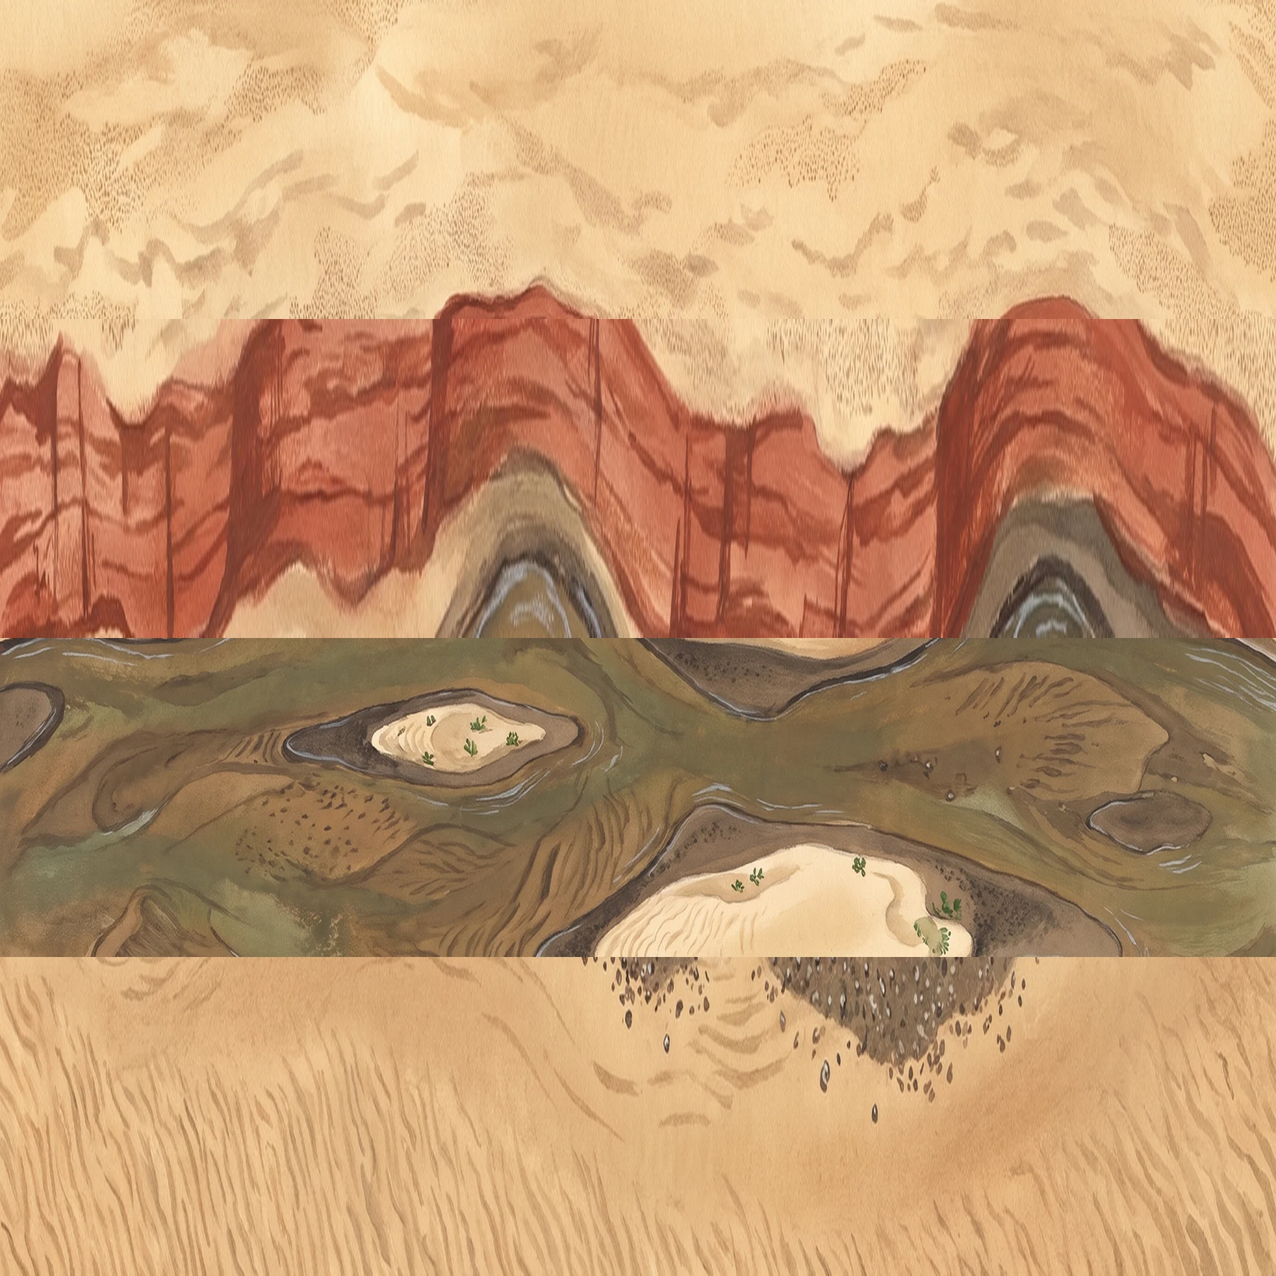
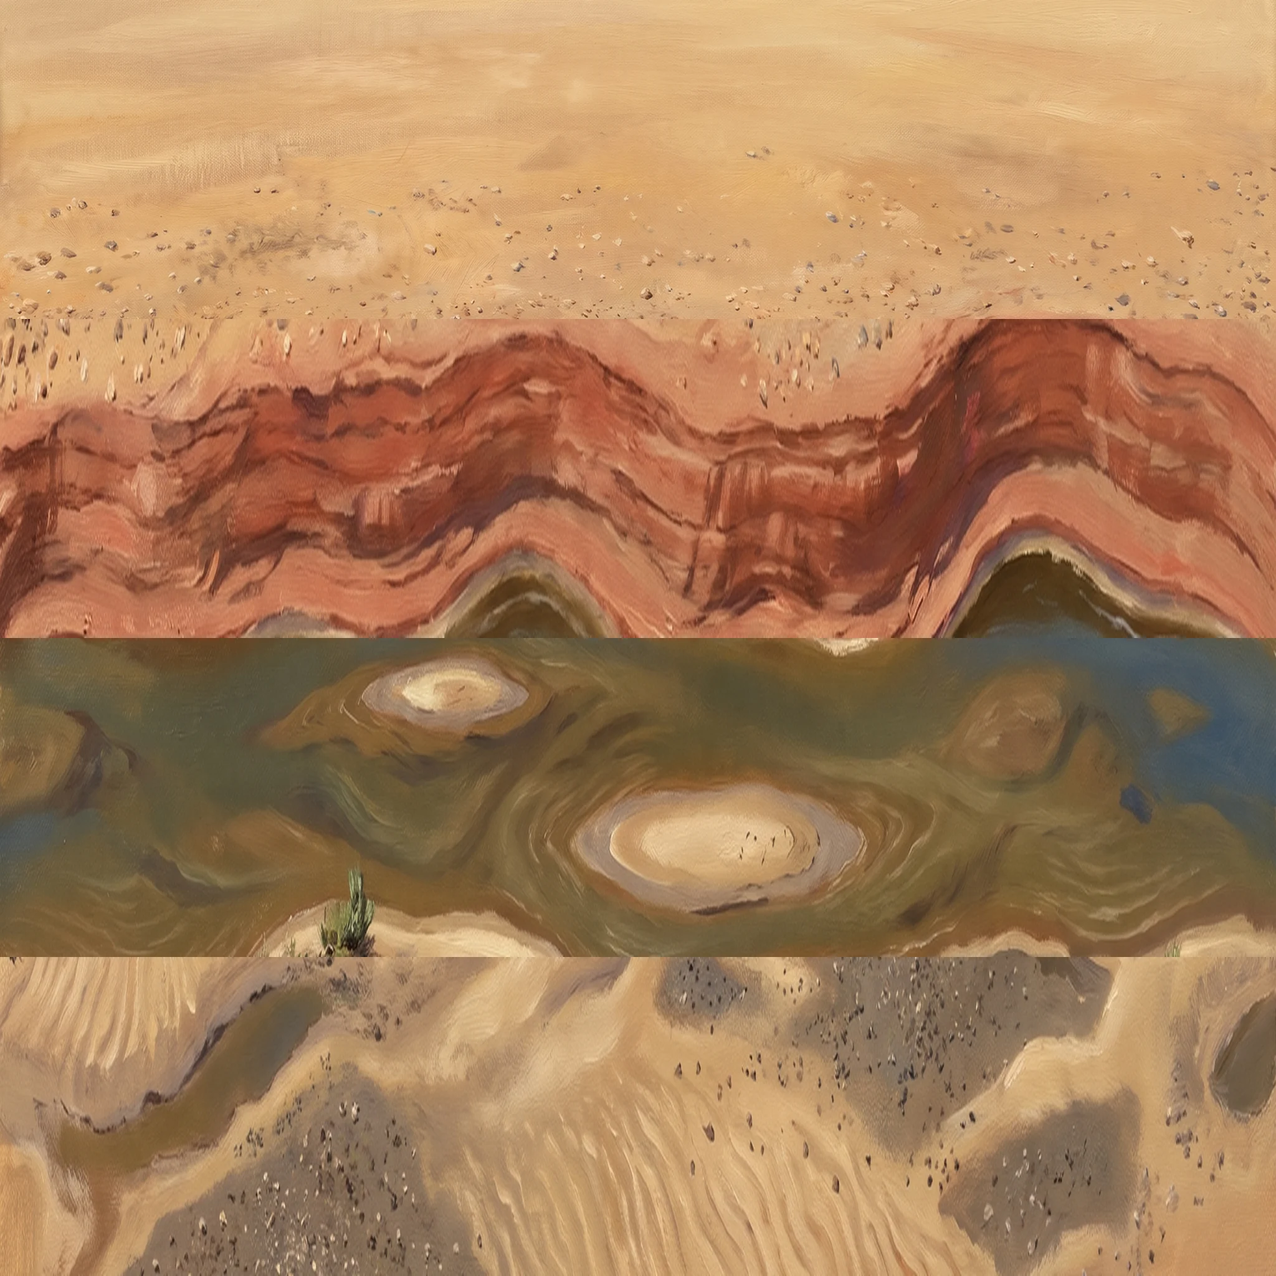
Knight's manner, today's science: the ground and the Earth opening
Evan: "Charles Knight style but today's interpretations." The house
manner for painted surfaces is now Charles R. Knight's (named in the
prompt: he died in 1953; never a living artist's), with the content
from the site's papers.

- The Kem Kem ground: repainted in Knight's manner by Gemini 3 Pro
  Image from the scene's own guide map (tools/paint.py ground --style
  knight; 2 candidates, ~$0.27). One slipped into perspective with
  cliffs the brief rules out and was refused; the other is cut into
  the scene's four ground swatches.
- The Earth opening: asked to repaint the atlas's globe and region in
  Knight's manner, the model drew the continents of 97 Ma closer to
  today's (76-89% land/sea agreement with the map); choose-earth
  refused all four (~$0.54 spent). New earth-brush builds the opening
  instead: shapes and colours from the atlas's own map, softened by an
  oil-paint brush filter, with only the brushwork of the repaint, and
  only where it agrees with the map about land and sea. Every coast and
  shallow sea stays exactly as mapped.
- The scene's panel gains "The pictures": how the Earth and the ground
  were made, by what model and in whose manner, with the prompt one tap
  away. docs/ART.md records the decision and its limits.

app/scripts/check.cjs: 38 passed, 0 failed (new: the painted Earth is
used; the panel says how the pictures were made).

diff --git a/app/src/SiteView.tsx b/app/src/SiteView.tsx
@@ -144,6 +144,10 @@ export function SiteView({ site, onBack }: { site: Site; onBack: () => void }) {
         <h3>How do we know?</h3><p>{site.know}</p>
         <h3>Still debated</h3><p>{site.debate}</p>
         <h3>What is a guess</h3><p>The exact shape of the river, banks and sandbank; where each plant stands; the animals’ poses and where they stand. The kinds of land, water and plants come from the papers below. Every animal is drawn to scale: most sizes come from papers; where none gives one, the animal’s card says whose estimate it is, or that it is a guess from living relatives.</p>
+        <h3>The pictures</h3>
+        <p>{site.earth && <>The Earth at the start is this atlas’s own map of that time — every coast and shallow sea as the science has it — given a painted look in the manner of Charles R. Knight (1874–1953). </>}
+          {site.ground && <>The ground is painted by AI ({site.ground.model === 'gemini-3-pro-image' ? 'Google’s Gemini 3 Pro Image' : site.ground.model}){/Charles R\. Knight/.test(site.ground.prompt) ? ' in the manner of Charles R. Knight, drawn with today’s science,' : ''} from this scene’s own map, and checked by eye; the scene lays its texture over the land, so the river and banks keep their shape. No animal is painted: they are the scientists’ silhouettes.</>}</p>
+        {site.ground && <details className="prompt"><summary>What the painter was asked</summary><div>{site.ground.prompt}</div></details>}
         <h3>Sources</h3>
         <ul className="papers">{site.papers.map(p => <li key={p.key}>{p.authors[0]}{p.authors.length > 1 ? ' et al.' : ''} ({p.year}). {p.title}. <i>{p.journal}</i>. <a href={'https://doi.org/' + p.doi} target="_blank" rel="noopener">doi:{p.doi}</a></li>)}</ul>
       </section>}

diff --git a/app/src/EarthIntro.tsx b/app/src/EarthIntro.tsx
@@ -11,13 +11,13 @@ export function EarthIntro({ site, onDone }: { site: Site; onDone: () => void })
     return () => t.forEach(clearTimeout);
   }, [onDone]);
   return <div className={'earth s' + stage} onClick={onDone} role="dialog" aria-label={'The Earth ' + site.when}>
-    <img className="globe" src={`earth/${site.id}-1.jpg`} alt="" />
-    <img className="region" src={`earth/${site.id}-2.jpg`} alt="" />
+    <img className="globe" src={`earth/${site.id}-1${site.earth ? '-painted' : ''}.jpg`} alt="" />
+    <img className="region" src={`earth/${site.id}-2${site.earth ? '-painted' : ''}.jpg`} alt="" />
     <div className="pin" aria-hidden="true" />
     <div className="cap">
       <b>The Earth {site.when}</b>
       <span>{site.name.replace(/^The /, 'the ').replace(/^./, c => c.toUpperCase())}, in what is now {site.where}</span>
-      <small>Continents, seas and mountains from this atlas’s map · tap to skip</small>
+      <small>Continents, seas and mountains from this atlas’s map{site.earth ? ', painted in the manner of Charles R. Knight' : ''} · tap to skip</small>
     </div>
   </div>;
 }
@@ -25,6 +25,6 @@ export function EarthIntro({ site, onDone }: { site: Site; onDone: () => void })
 /** a small round view of the Earth at that time, with the site marked: tap to see the opening again */
 export function WhereOnEarth({ site, onOpen }: { site: Site; onOpen: () => void }) {
   return <button className="where" onClick={onOpen} aria-label="Where on Earth: show the opening again">
-    <img src={`earth/${site.id}-1.jpg`} alt="" /><span>Where on Earth</span>
+    <img src={`earth/${site.id}-1${site.earth ? '-painted' : ''}.jpg`} alt="" /><span>Where on Earth</span>
   </button>;
 }

diff --git a/app/src/styles.css b/app/src/styles.css
@@ -19,6 +19,7 @@ a { color: var(--link); }
 .units { margin-left: auto; flex-shrink: 0; display: flex; border: 1px solid var(--line); border-radius: 10px; overflow: hidden; align-self: flex-start; }
 .units button { min-width: 44px; height: 36px; border: 0; background: var(--panel); color: var(--muted); cursor: pointer; font-weight: 600; }
 .units button.on { background: var(--gold); color: #2e1a08; }
+.panel .prompt summary { cursor: pointer; color: var(--link); } .panel .prompt div { white-space: pre-wrap; font-size: 0.74rem; color: var(--muted); background: rgba(255,255,255,0.04); padding: 8px; border-radius: 8px; margin-top: 4px; }
 .panel .basis { font-size: 0.82rem; color: var(--ink); background: rgba(255, 255, 255, 0.05); padding: 6px 8px; border-radius: 8px; }
 .bar b { display: block; color: #fff; } .bar span { color: var(--gold); font-size: 0.8rem; } .bar em { display: block; color: var(--muted); font-size: 0.8rem; max-width: 560px; }
 .back { width: 40px; height: 40px; border-radius: 10px; border: 1px solid var(--line); background: var(--panel); color: #fff; cursor: pointer; }

diff --git a/app/src/types.ts b/app/src/types.ts
@@ -11,4 +11,5 @@ export interface Site {
   cast: CastMember[]; paint: { land: string; water: string; plants: string; light: string; not: string };
   know: string; debate: string; sil: Record<string, Silhouette>; papers: Paper[];
   ground: { f: string; model: string; made: string; prompt: string; strips: string[] } | null;
+  earth: { method: string } | null;
 }

diff --git a/tools/paint.py b/tools/paint.py
@@ -11,6 +11,10 @@ says the picture is AI-made, names the model and shows what it was asked for.
     python3 -I tools/paint.py choose kemkem 2          # candidate 2 becomes tiles/scenes/kemkem.webp
     python3 -I tools/paint.py ground kemkem --guide g.png [--n 2] [--pro] [--size 2K]   # the ground of a living scene
     python3 -I tools/paint.py choose-ground kemkem 1   # candidate 1 becomes the scene's ground swatches (app/public/ground/)
+        (add --style knight to `ground`: Charles R. Knight's manner, drawn with today's science; see docs/ART.md)
+    python3 -I tools/paint.py earth kemkem [--n 1] [--pro]     # the Earth opening (globe, region), repainted in Knight's manner
+    python3 -I tools/paint.py choose-earth kemkem 1 2         # view 1, candidate 2 → app/public/earth/kemkem-1-painted.jpg,
+                                                               #   only if its coasts still match the map (land/sea agreement)
     python3 -I tools/paint.py spent                    # what the log says was spent
     python3 -I tools/paint.py check                    # is the key accepted, and can it see the image models? (free)
 
@@ -169,15 +173,29 @@ GROUND_NEVER = ('Seen from straight above only: no horizon, no sky, no perspecti
                 'labels, border or frame.')
 
 
-def ground(sid, guide, n, pro, size):
+# Charles R. Knight (1874–1953) is named on purpose: he died in 1953 and much of his work is public domain, and
+# docs/ART.md never allows a living artist's name. His manner; today's science: the brief (from the papers) decides
+# what is painted (Evan, 25 Nov: "Charles Knight style but today's interpretations").
+KNIGHT = ('Painted in the manner of Charles R. Knight (1874–1953), the American natural-history muralist: oil on canvas, '
+          'confident visible brushwork, warm golden naturalistic light, soft atmospheric haze, a palette of ochres, siennas, '
+          'olive greens and dusty blues, calm and dignified realism. Keep his warmth and his eye for the real world, but follow '
+          "TODAY's science, not the science of his time: paint the land, water, plants and climate exactly as described here.")
+GROUND_KNIGHT = ('A richly detailed painting of a landscape seen from directly above. ' + KNIGHT + ' Fine, careful texture '
+                 'everywhere: grains and small pebbles on the gravel bars, ripple marks left by the current on the low sand, '
+                 'darker damp sand along every edge of the water, silt swirls and sand waves on the bed of the shallow river '
+                 'showing through brownish-green water, layered reddish sandstone on the face of the far bank, a few small low '
+                 'green plants near the water.')
+
+
+def ground(sid, guide, n, pro, size, style=None):
     s = scenes().get(sid) or sys.exit('no scene ' + sid)
     p = s.get('paint') or sys.exit('scene %s has no `paint` brief' % sid)
-    text = '\n'.join([GROUND_STYLE, GROUND_LAYOUT, 'The place: %s, %s.' % (s['where'], s['when']),
+    text = '\n'.join([GROUND_KNIGHT if style == 'knight' else GROUND_STYLE, GROUND_LAYOUT, 'The place: %s, %s.' % (s['where'], s['when']),
                       'Land: %s.' % p['land'], 'Water: %s.' % p['water'], 'Light: %s.' % p['light'],
                       'Do not paint: %s.' % p['not'], GROUND_NEVER])
     d = os.path.join(CAND, sid + '-ground'); os.makedirs(d, exist_ok=True)
     os.makedirs(os.path.join(HERE, 'prompts'), exist_ok=True)
-    open(os.path.join(HERE, 'prompts', sid + '-ground.txt'), 'w').write(text)
+    open(os.path.join(HERE, 'prompts', sid + '-ground' + ('-' + style if style else '') + '.txt'), 'w').write(text)
     body = {'model': MODEL_PRO if pro else MODEL,
             'input': [{'type': 'text', 'text': text}, {'type': 'image', 'mime_type': 'image/png', 'data': base64.b64encode(open(guide, 'rb').read()).decode()}],
             'response_format': {'type': 'image', 'mime_type': 'image/jpeg', 'image_size': size, 'aspect_ratio': '16:9'}}
@@ -185,9 +203,127 @@ def ground(sid, guide, n, pro, size):
     for i in range(n):
         for b in images(call(body)):
             have += 1; fn = os.path.join(d, '%d.jpg' % have); open(fn, 'wb').write(b)
-            json.dump({'model': body['model'], 'size': size, 'prompt': text, 'made': time.strftime('%Y-%m-%d')}, open(fn[:-4] + '.json', 'w'))
+            json.dump({'model': body['model'], 'size': size, 'prompt': text, 'style': style, 'made': time.strftime('%Y-%m-%d')}, open(fn[:-4] + '.json', 'w'))
             print('  candidate', fn)
     print('  this run: %d call(s), ~$%.2f' % (_calls, _spent))
+
+
+# The Earth opening of a living scene, repainted: the pictures app/scripts/capture-earth.cjs takes of this atlas's own
+# globe at the site's time (1: the globe, 2: the region), painted in Knight's manner. A coastline is a claim, so a
+# painting is used only if its land and sea still match the map's (choose-earth measures it and refuses below 92%).
+EARTH_VIEWS = {1: 'the whole planet seen from space', 2: 'one region of it seen from high above'}
+
+
+def earth_prompt(s, view):
+    return '\n'.join([
+        'The attached picture is a scientific map of the Earth %s (%s), made from reconstructions of where the continents, '
+        'seas and mountains were at that time.' % (s['when'], EARTH_VIEWS[view]),
+        'Repaint it as a view of the real planet. ' + KNIGHT,
+        'Deep blue open ocean; lighter turquoise shallow seas over the drowned edges of the continents; land in ochres and '
+        'olive greens, darker green where it was wetter, paler where it was dry; a few thin wisps of white cloud that do not '
+        'hide any coast' + ('; a thin glow of blue atmosphere at the edge of the globe; black space around it' if view == 1 else '') + '.',
+        'Keep EVERY coastline, sea, island, shallow sea and mountain range exactly where and as it is: this is a scientific '
+        'map. Do not move, add or remove any land.',
+        "Remove the map's text labels, its round pins and any grid lines. No text, labels, borders, frame or animals."])
+
+
+def earth(sid, n, pro):
+    s = scenes().get(sid) or sys.exit('no scene ' + sid)
+    d = os.path.join(CAND, sid + '-earth'); os.makedirs(d, exist_ok=True); os.makedirs(os.path.join(HERE, 'prompts'), exist_ok=True)
+    for view in (1, 2):
+        src = os.path.join(ROOT, 'app', 'public', 'earth', '%s-%d.jpg' % (sid, view))
+        text = earth_prompt(s, view); open(os.path.join(HERE, 'prompts', '%s-earth-%d.txt' % (sid, view)), 'w').write(text)
+        body = {'model': MODEL_PRO if pro else MODEL,
+                'input': [{'type': 'text', 'text': text}, {'type': 'image', 'mime_type': 'image/jpeg', 'data': base64.b64encode(open(src, 'rb').read()).decode()}],
+                'response_format': {'type': 'image', 'mime_type': 'image/jpeg', 'image_size': '2K' if pro else '1K', 'aspect_ratio': '1:1'}}
+        for i in range(n):
+            for b in images(call(body)):
+                k = len([f for f in os.listdir(d) if f.startswith('%d-' % view) and f.endswith('.jpg')]) + 1
+                fn = os.path.join(d, '%d-%d.jpg' % (view, k)); open(fn, 'wb').write(b)
+                json.dump({'model': body['model'], 'prompt': text, 'made': time.strftime('%Y-%m-%d')}, open(fn[:-4] + '.json', 'w'))
+                print('  candidate', fn)
+    print('  this run: %d call(s), ~$%.2f' % (_calls, _spent))
+
+
+def _sea(im, globe):
+    # sea (True) or land per pixel, by colour; for the globe, only inside its disc
+    import numpy as np
+    a = np.asarray(im.convert('RGB').resize((600, 600), Image.LANCZOS)).astype(int)
+    r, g, b = a[..., 0], a[..., 1], a[..., 2]
+    sea = (b > r + 18) & (b >= g - 10)
+    yy, xx = np.mgrid[0:600, 0:600]
+    inside = ((xx - 300) ** 2 + (yy - 300) ** 2 < (300 * 0.86) ** 2) if globe else np.ones((600, 600), bool)
+    return sea, inside
+
+
+def choose_earth(sid, view, k):
+    view = int(view); src = os.path.join(ROOT, 'app', 'public', 'earth', '%s-%d.jpg' % (sid, view))
+    cand = os.path.join(CAND, sid + '-earth', '%d-%s.jpg' % (view, k)); meta = json.load(open(cand[:-4] + '.json'))
+    a, inside = _sea(Image.open(src), view == 1); b, _ = _sea(Image.open(cand), view == 1)
+    agree = float(((a == b) & inside).sum() / inside.sum())
+    print('  land/sea agreement with the map: %.1f%%' % (100 * agree))
+    if agree < 0.92: sys.exit('  refused: the painting moved the coasts too much (needs 92%). Choose another candidate or paint again.')
+    out = os.path.join(ROOT, 'app', 'public', 'earth', '%s-%d-painted.jpg' % (sid, view))
+    Image.open(cand).convert('RGB').resize((1400, 1400), Image.LANCZOS).save(out, 'JPEG', quality=86)
+    json.dump({'f': 'earth/%s-%d-painted.jpg' % (sid, view), 'model': meta['model'], 'made': meta['made'], 'prompt': meta['prompt'],
+               'agreement': round(agree, 3)}, open(out[:-4] + '.json', 'w'), ensure_ascii=False, indent=1)
+    print('  %s ← candidate %s' % (out, k))
+
+
+def earth_brush(sid):
+    """The Earth opening with a painted look and NOT ONE coast moved. The image model's repaints (`earth`) pulled the
+    ancient continents toward today's (25 Nov 2026: 76-89% land/sea agreement, all refused), so the picture is put
+    together instead: the SHAPES and COLOURS are the atlas's own map (softened by a small oil-paint brush filter,
+    Kuwahara: each pixel takes the calmest of the four squares around it); the BRUSHWORK is the light and shade of the
+    Knight-manner repaint (its texture only, relative to its own blur), used only where the repaint agrees with the map
+    about land and sea; then a warm grade and a faint canvas grain. Every coast and shelf sea is exactly as mapped."""
+    import numpy as np
+    W3 = np.array([0.299, 0.587, 0.114]); lumf = lambda x: np.einsum('...c,c->...', x, W3)
+    for view in (1, 2):
+        src = os.path.join(ROOT, 'app', 'public', 'earth', '%s-%d.jpg' % (sid, view))
+        a = np.asarray(Image.open(src).convert('RGB').resize((1400, 1400), Image.LANCZOS)).astype(np.float64) / 255
+        r = 3
+        lum = lumf(a)
+        def box(x):        # mean over every (r+1)x(r+1) square, by summed-area table; result[y, x] = square ending at (y, x)
+            s = np.pad(x, ((1, 0), (1, 0)) + ((0, 0),) * (x.ndim - 2)).cumsum(0).cumsum(1)
+            k = r + 1; return (s[k:, k:] - s[:-k, k:] - s[k:, :-k] + s[:-k, :-k]) / (k * k)
+        mean, var = box(a), box(lum ** 2) - box(lum) ** 2
+        H, W = lum.shape; best = np.full((H, W), np.inf); out = np.zeros_like(a)
+        for dy in (0, r):                                    # the four squares: up-left, up-right, down-left, down-right
+            for dx in (0, r):
+                ys = np.clip(np.arange(H) - r + dy, 0, mean.shape[0] - 1); xs = np.clip(np.arange(W) - r + dx, 0, mean.shape[1] - 1)
+                m, v = mean[np.ix_(ys, xs)], var[np.ix_(ys, xs)]
+                pick = v < best; best = np.where(pick, v, best); out[pick] = m[pick]
+        # the brushwork of the best-agreeing Knight-manner repaint, where it agrees with the map about land and sea
+        cands = sorted(f for f in os.listdir(os.path.join(CAND, sid + '-earth')) if f.startswith('%d-' % view) and f.endswith('.jpg')) if os.path.isdir(os.path.join(CAND, sid + '-earth')) else []
+        best_c, best_agree = None, 0
+        for f in cands:
+            sm, inside = _sea(Image.open(src), view == 1); sc, _ = _sea(Image.open(os.path.join(CAND, sid + '-earth', f)), view == 1)
+            ag = float(((sm == sc) & inside).sum() / inside.sum())
+            if ag > best_agree: best_c, best_agree = f, ag
+        used = None
+        if best_c:
+            p = np.asarray(Image.open(os.path.join(CAND, sid + '-earth', best_c)).convert('RGB').resize((1400, 1400), Image.LANCZOS)).astype(np.float64) / 255
+            pl = lumf(p); blur = np.asarray(Image.fromarray((pl * 255).astype(np.uint8)).filter(ImageFilter.GaussianBlur(9))).astype(np.float64) / 255
+            detail = np.clip(pl / np.maximum(blur, 0.05), 0.72, 1.3)
+            mask = lambda im: np.asarray(Image.fromarray(im).resize((1400, 1400), Image.NEAREST))
+            sm, _ = _sea(Image.open(src), False); sc, _ = _sea(Image.open(os.path.join(CAND, sid + '-earth', best_c)), False)
+            same = mask(((sm == sc) * 255).astype(np.uint8)) > 127
+            soft = np.asarray(Image.fromarray((same * 255).astype(np.uint8)).filter(ImageFilter.GaussianBlur(4))).astype(np.float64) / 255
+            out = out * (1 + (detail - 1) * soft * 0.9)[..., None]
+            used = best_c
+        out = out * np.array([1.05, 1.0, 0.9])               # warm, as in Knight's murals
+        g = lumf(out); out = g[..., None] + (out - g[..., None]) * 0.92
+        out = (out - 0.5) * 1.06 + 0.5
+        rng_ = np.random.default_rng(97 + view)              # canvas grain: fixed seed, the same picture every time
+        out += (rng_.normal(0, 0.012, (H, W)))[..., None]
+        dst = os.path.join(ROOT, 'app', 'public', 'earth', '%s-%d-painted.jpg' % (sid, view))
+        Image.fromarray((np.clip(out, 0, 1) * 255).astype(np.uint8)).save(dst, 'JPEG', quality=86)
+        json.dump({'f': 'earth/%s-%d-painted.jpg' % (sid, view),
+                   'method': "this atlas's own map (shapes and colours, every coast exactly as mapped), softened by an oil-paint brush filter, with the brushwork of a Charles R. Knight-manner repaint by Gemini 3 Pro Image where it agrees with the map, and a warm grade",
+                   'texture_from': used, 'texture_agreement': round(best_agree, 3) if used else None, 'made': time.strftime('%Y-%m-%d')},
+                  open(dst[:-4] + '.json', 'w'), ensure_ascii=False, indent=1)
+        print('  %s (texture from %s, %.1f%% agreement)' % (dst, used, 100 * best_agree) if used else '  %s (brush filter only)' % dst)
 
 
 def choose_ground(sid, k):
@@ -264,7 +400,10 @@ if __name__ == '__main__':
     if not a: sys.exit(__doc__)
     if a[0] == 'site': site(a[1], int(opt('--n', 3)), '--pro' in sys.argv, opt('--size', '1K'))
     elif a[0] == 'choose': choose(a[1], a[2])
-    elif a[0] == 'ground': ground(a[1], opt('--guide', None) or sys.exit('--guide <png> is needed'), int(opt('--n', 2)), '--pro' in sys.argv, opt('--size', '2K'))
+    elif a[0] == 'ground': ground(a[1], opt('--guide', None) or sys.exit('--guide <png> is needed'), int(opt('--n', 2)), '--pro' in sys.argv, opt('--size', '2K'), opt('--style', None))
+    elif a[0] == 'earth': earth(a[1], int(opt('--n', 1)), '--pro' in sys.argv)
+    elif a[0] == 'choose-earth': choose_earth(a[1], a[2], a[3])
+    elif a[0] == 'earth-brush': earth_brush(a[1])
     elif a[0] == 'choose-ground': choose_ground(a[1], a[2])
     elif a[0] == 'spent': spent()
     elif a[0] == 'check': check()

diff --git a/docs/ART.md b/docs/ART.md
@@ -11,6 +11,24 @@ of — never from inventing what the papers do not hold. Every element in a scen
 in `data_sites.js`, a paraphrase of its papers), a general fact of the world (water ripples, sand dries paler, clouds
 cast shadows), or named on screen as a guess.
 
+## Knight's manner, today's science (Evan, 25 Nov)
+
+Evan: “Charles Knight style but today's interpretations.” So the house manner for painted surfaces is **Charles R.
+Knight's** — oil on canvas, confident brushwork, warm golden naturalistic light, soft haze, ochres, siennas, olive greens
+and dusty blues, calm dignified realism — and the **content is today's science**: the land, water, plants and climate
+from the site's papers, never the science of Knight's day. Knight died in 1953, so his name may go in a prompt
+(`KNIGHT` in `tools/paint.py`; `ground --style knight`); a living artist's never.
+
+- **The ground** of the Kem Kem is painted this way (Gemini 3 Pro Image, from the scene's own guide map; of two
+  candidates one slipped into perspective with cliffs the brief rules out and was refused).
+- **The Earth opening** may not be repainted by the image model: asked to keep every coast, it drew the continents of
+  97 million years ago closer to today's (only 76–89 % of land and sea agreed with the map; all four refused by
+  `choose-earth`). So `earth-brush` builds it instead: **shapes and colours from this atlas's own map**, softened by an
+  oil-paint brush filter, with **only the brushwork** (light and shade) of the Knight-manner repaint, and only where that
+  repaint agrees with the map about land and sea. Every coast and shallow sea is exactly as mapped; the page says how.
+- Animals stay the scientists' silhouettes. Painting animals in Knight's manner — with today's reconstructions — would
+  change a rule of the atlas: ask Evan first.
+
 ## Who we learn from
 
 We study these artists and traditions, credit them, and never copy a work. **We never name a living artist in an
@@ -58,5 +76,5 @@ monkey-puzzle foliage `#33472b` · haze `#e6d8b8` · silhouettes `#3a2410` (land
 ## Still to do
 
 - Add the inspirations above to Finds › “What this atlas borrows” with sources (`i:<id>` targets, verified).
-- With Evan’s go-ahead: public-domain Knight paintings (pre-1929) as reference pictures for the painter, credited.
+- Public-domain Knight paintings (pre-1929) as reference pictures for the painter: not needed so far (his manner is named in the prompt); ask Evan before downloading any.
 - More of the brief’s plants as recognisable 3D kinds (ferns with fronds, leafy shrubs), and the pond at Oum Tkout.
